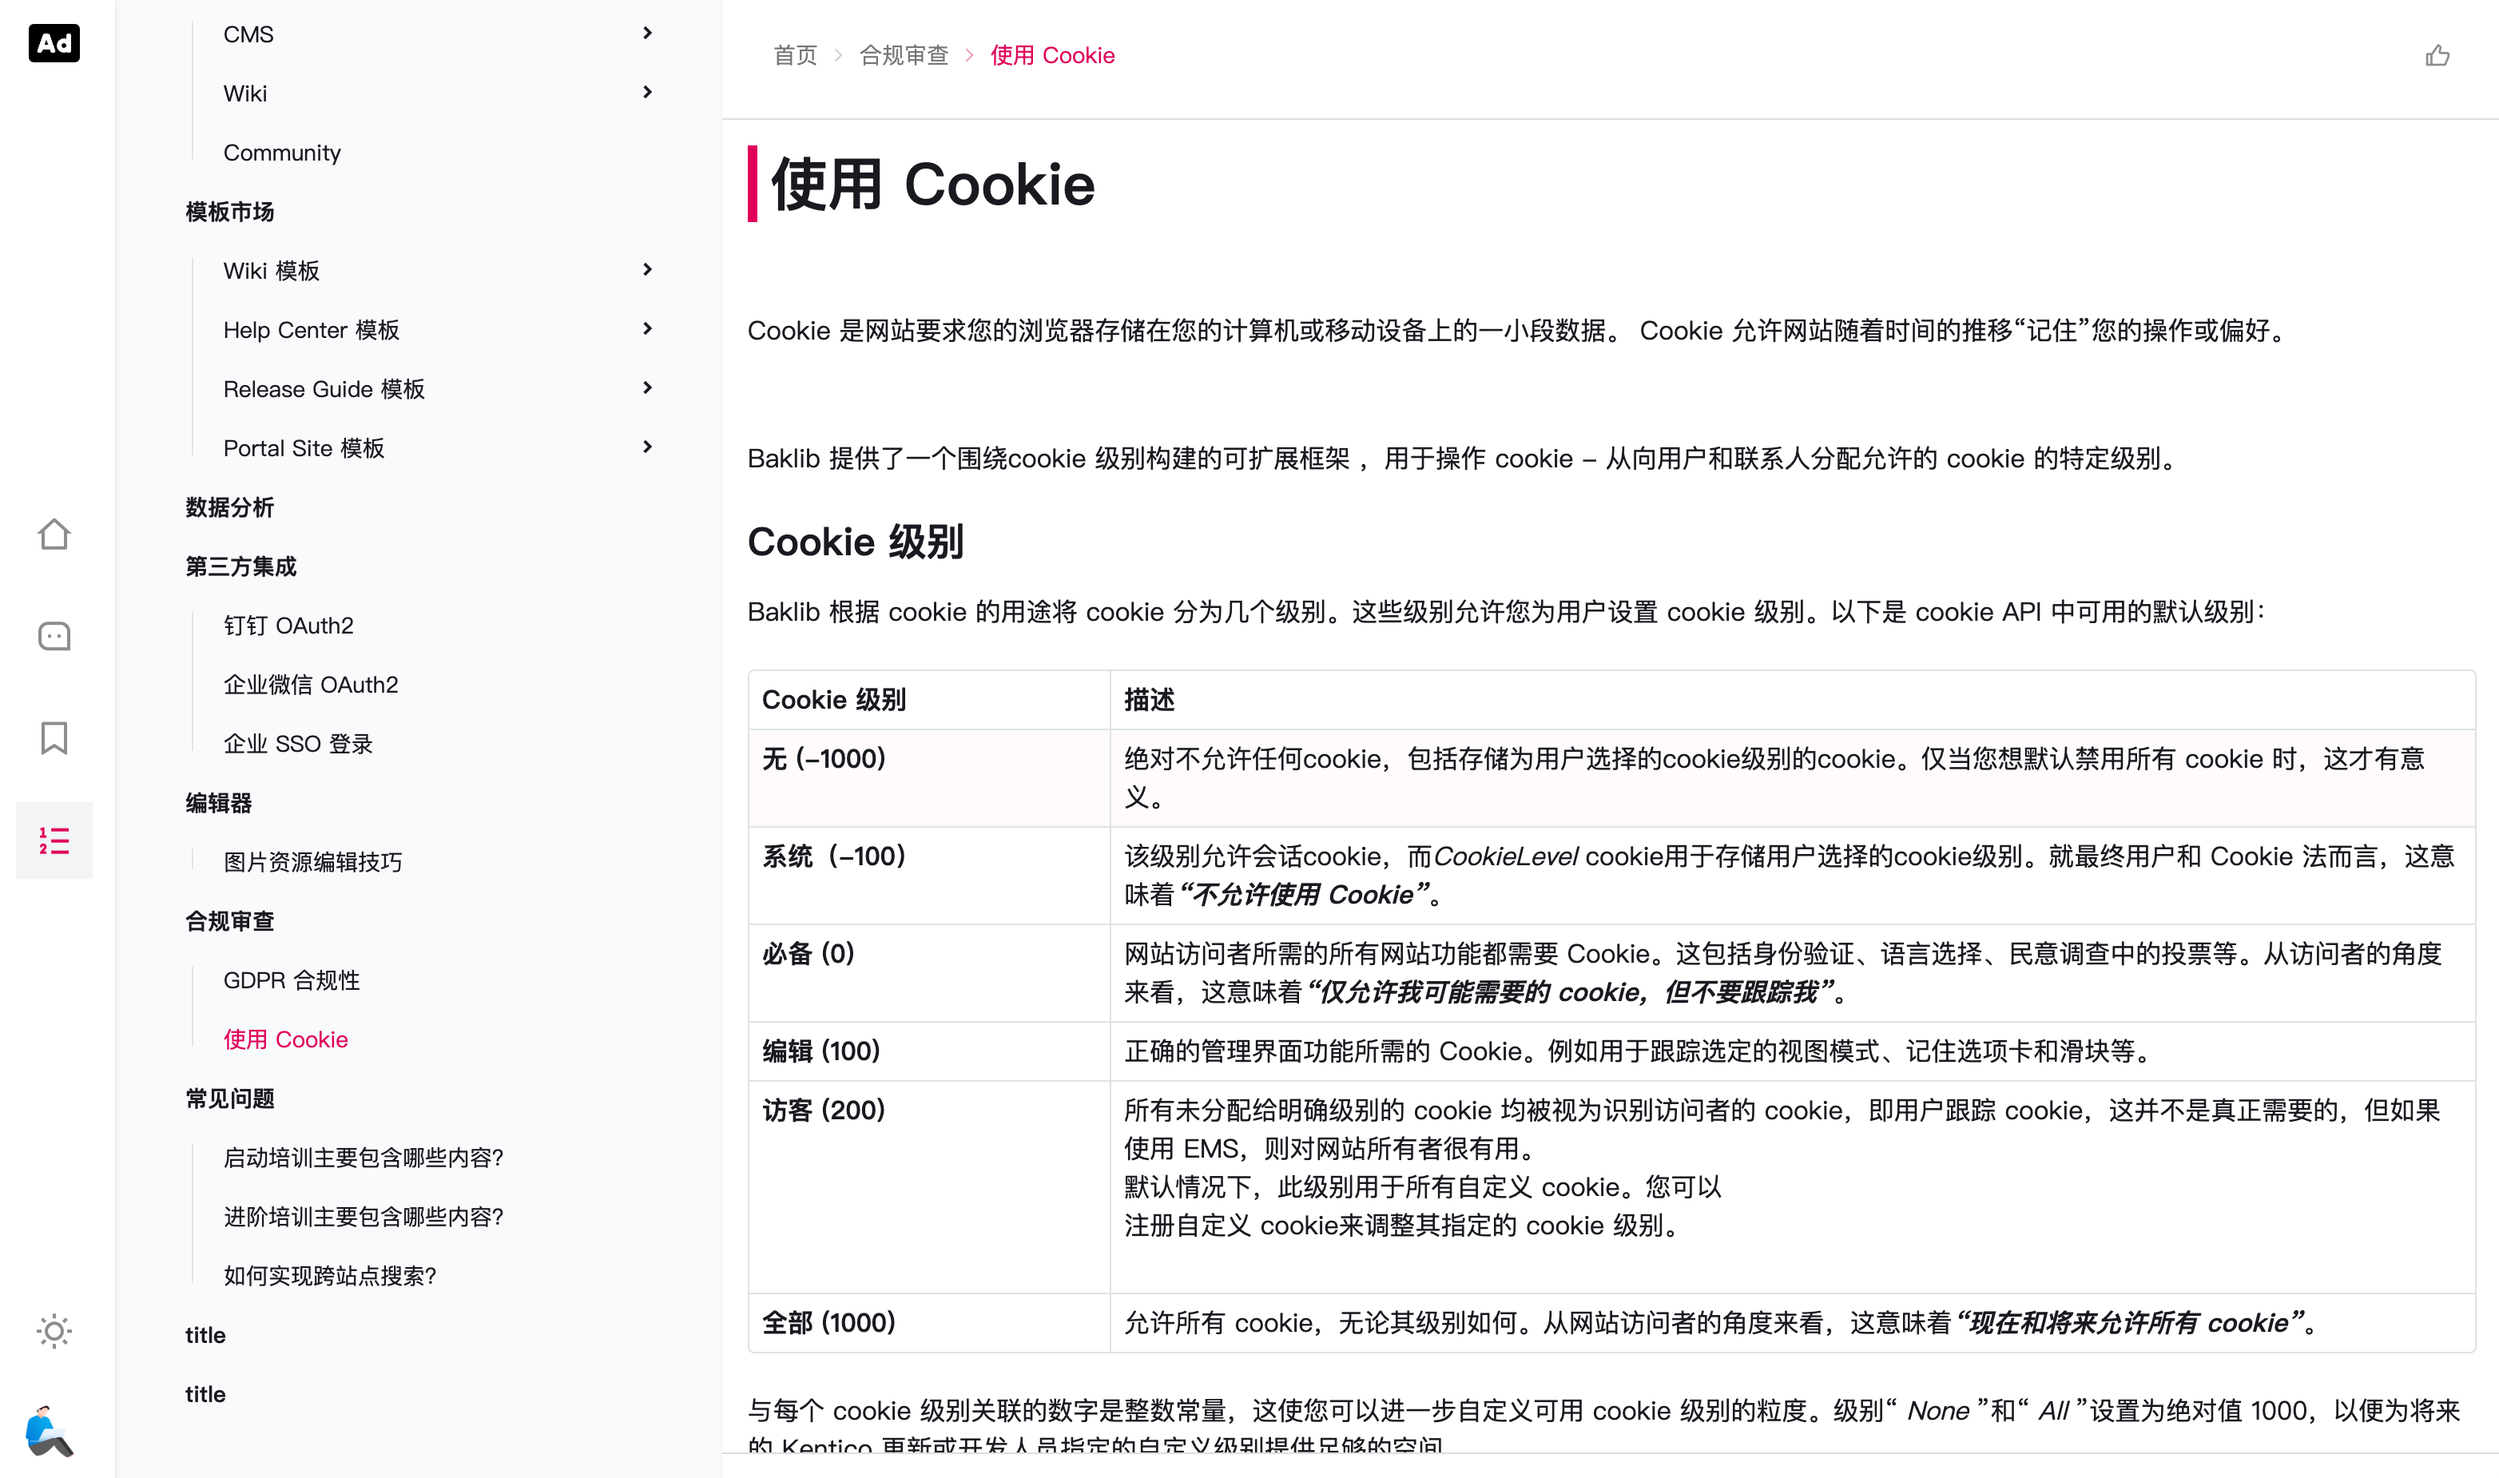
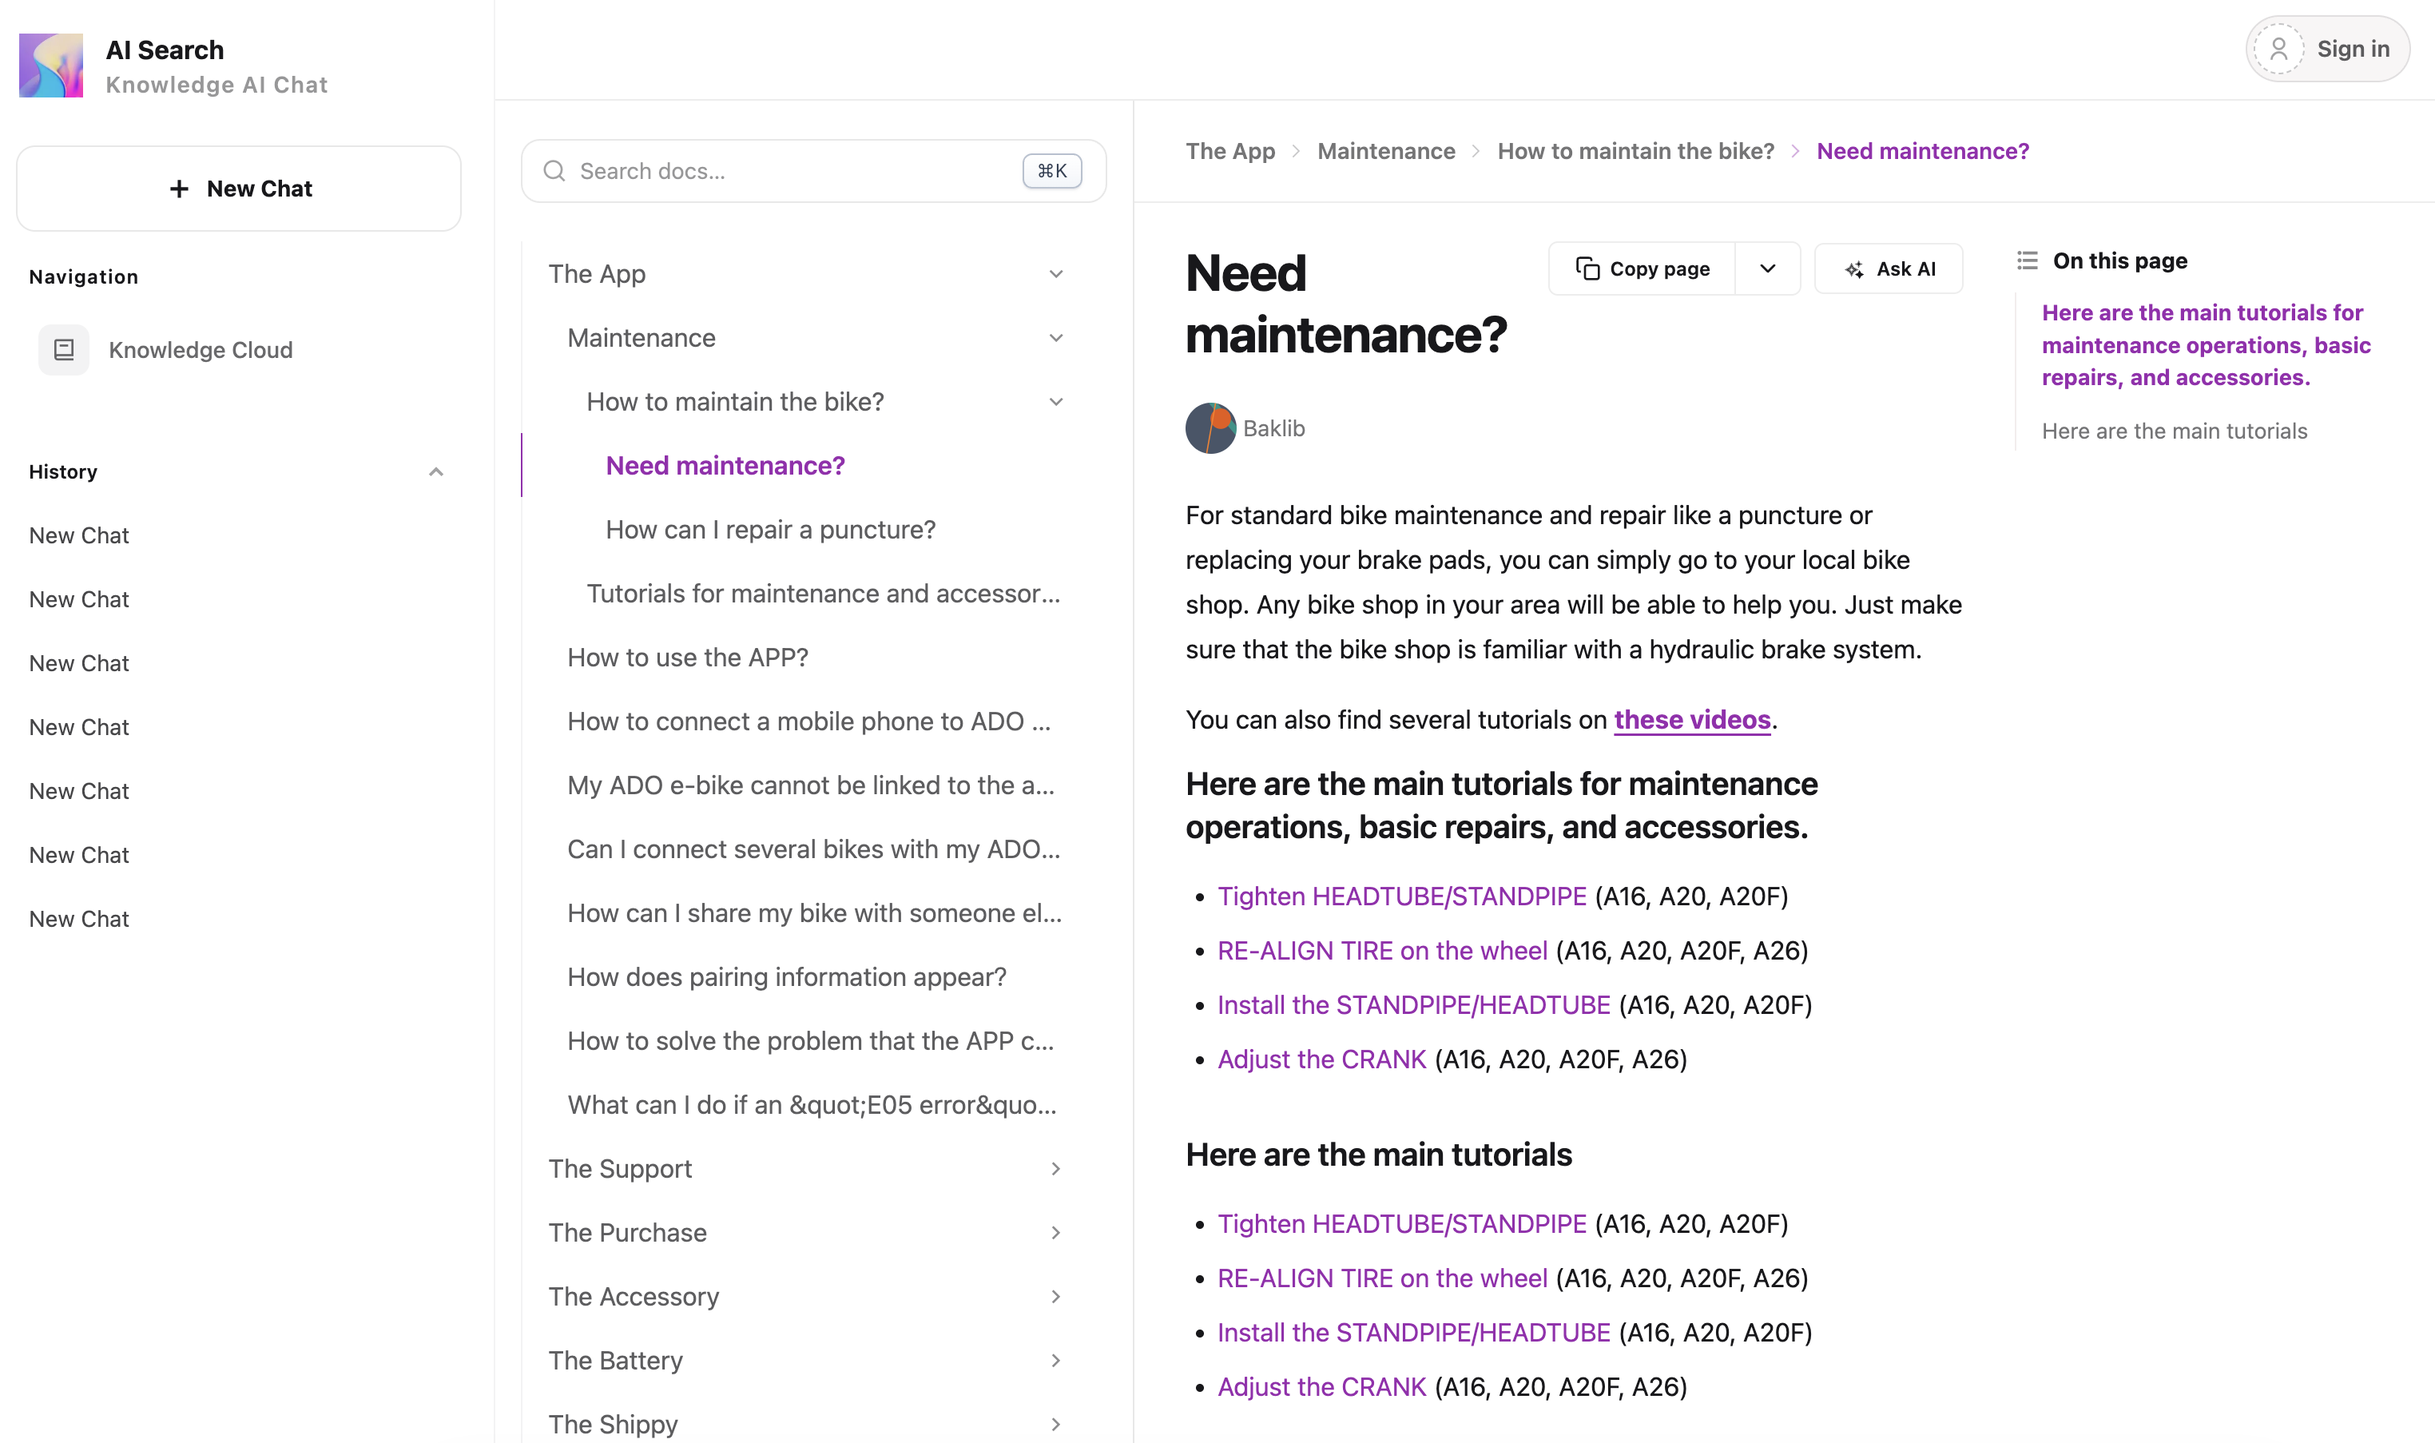
update new ai search 3

diff --git a/assets/stylesheets/application.css b/assets/stylesheets/application.css
@@ -3683,6 +3683,14 @@
   .border-transparent {
     border-color: transparent;
   }
+  .glass {
+    border: none;
+    backdrop-filter: blur(var(--glass-blur, 40px));
+    background-color: #0000;
+    background-image: linear-gradient( 135deg, oklch(100% 0 0 / var(--glass-opacity, 30%)) 0%, oklch(0% 0 0 / 0%) 100% ), linear-gradient( var(--glass-reflect-degree, 100deg), oklch(100% 0 0 / var(--glass-reflect-opacity, 5%)) 25%, oklch(0% 0 0 / 0%) 25% );
+    box-shadow: 0 0 0 1px oklch(100% 0 0 / var(--glass-border-opacity, 20%)) inset, 0 0 0 2px oklch(0% 0 0 / 5%);
+    text-shadow: 0 1px oklch(0% 0 0 / var(--glass-text-shadow-opacity, 5%));
+  }
   .\!bg-primary\/20 {
     background-color: var(--color-primary) !important;
     @supports (color: color-mix(in lab, red, red)) {
